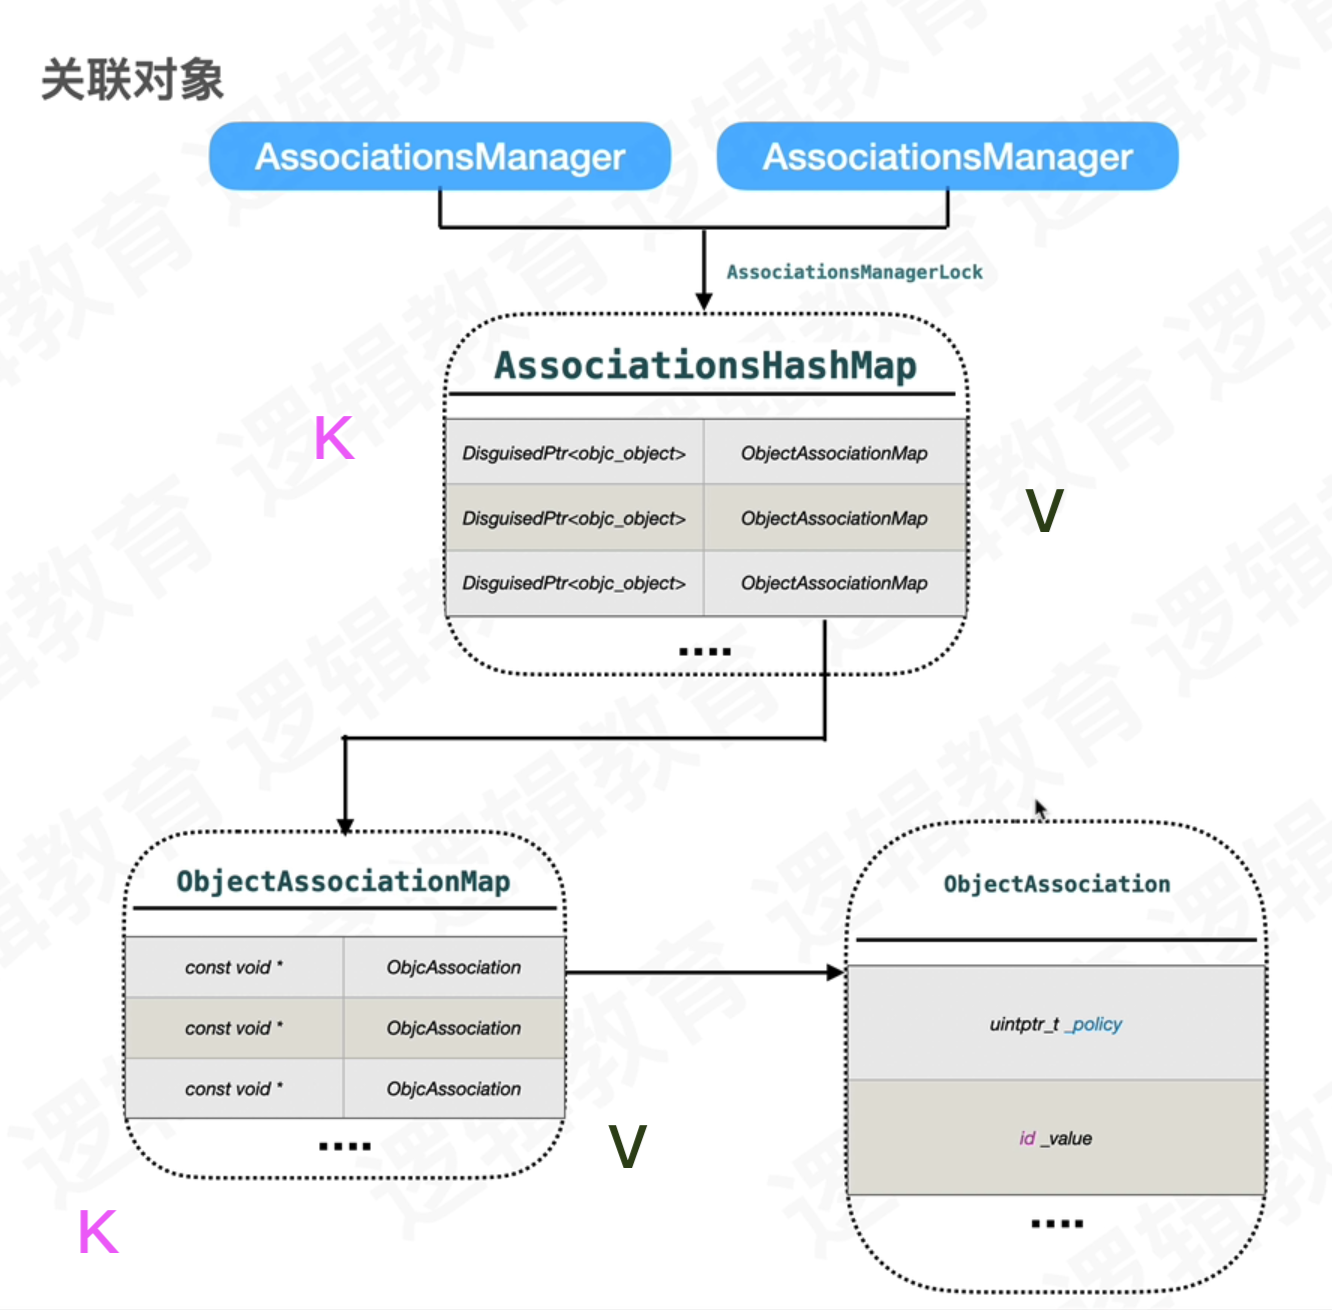
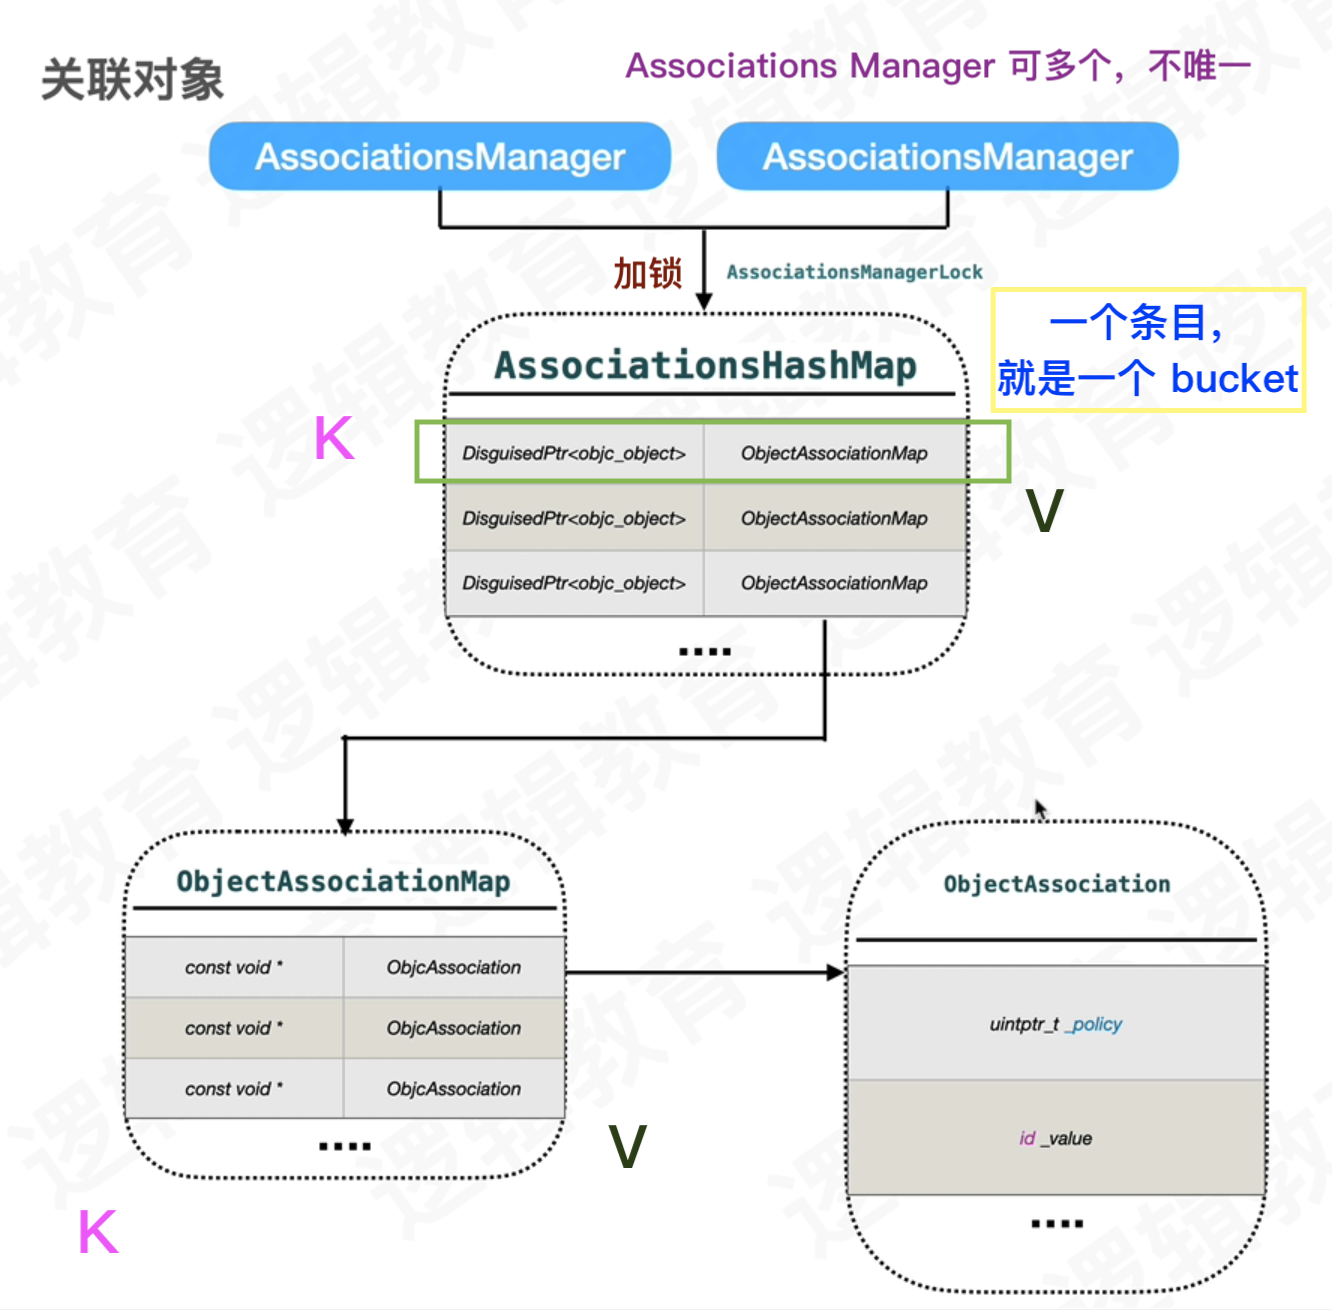
// 静态方法，可理解为类方法     static void init()

diff --git a/objc4-818.2/runtime/objc-references.mm b/objc4-818.2/runtime/objc-references.mm
@@ -194,6 +194,19 @@ public:
         return _mapStorage.get();
     }
 
+    
+    
+    
+    
+    
+    
+    
+    // 静态变量，初始化
+    
+    
+    // 第一次进来的时候，调用
+    
+    // 静态方法，可理解为类方法
     static void init() {
         _mapStorage.init();
     }

diff --git a/quick/关联对象_设值流程.md b/quick/关联对象_设值流程.md
@@ -16,3 +16,32 @@
 
 
 就有一个，重入的问题
+
+
+<hr>
+
+
+<hr>
+
+<hr>
+
+
+<hr>
+
+
+Associations Manager
+
+
+
+不唯一，
+
+
+通过加锁，保证同一时间段，
+
+只能存在一个
+
+
+
+
+
+
